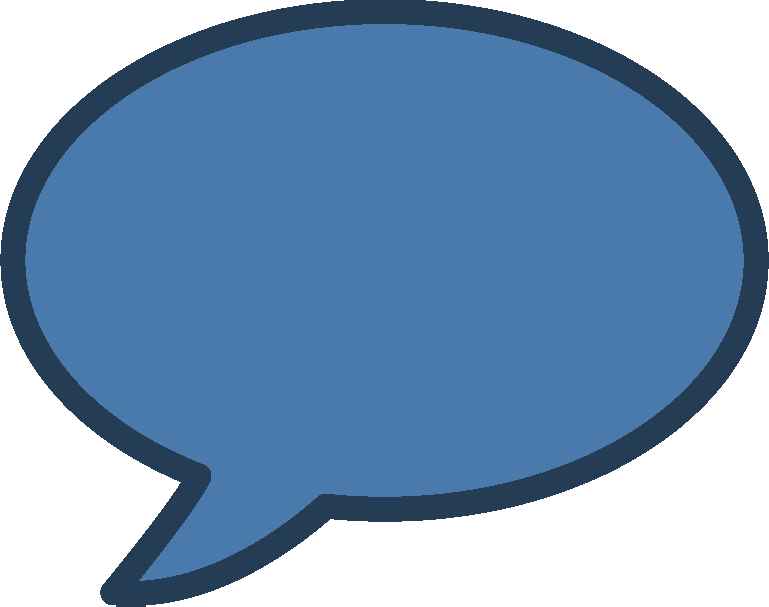
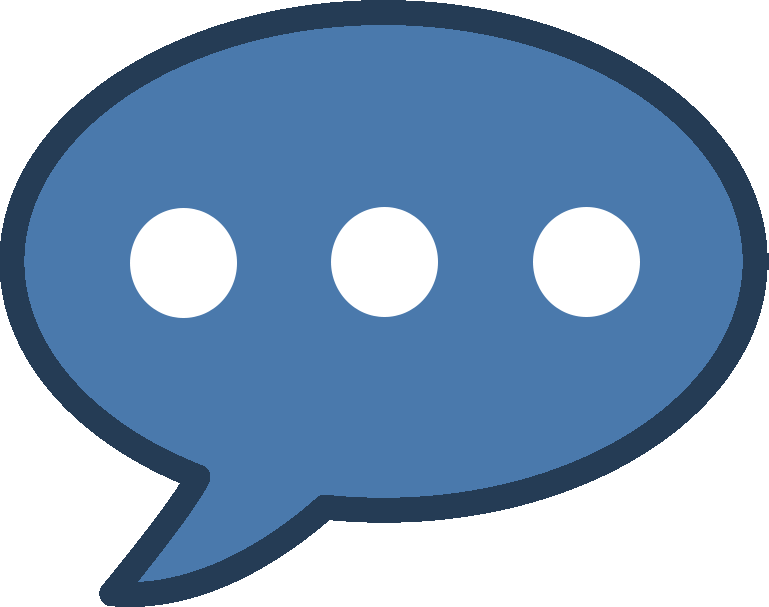
cc가 하나만 노출되도록 수정 / 각종 버튼 이미지 업데이트
cc가 하나만 노출되도록 수정 / 각종 버튼 이미지 업데이트

diff --git a/css/hospital/prescription.css b/css/hospital/prescription.css
@@ -363,18 +363,18 @@
 .print-btn-prescription {
     position: absolute;
     right: 220px;  /* desk-select(100px) + Send 버튼(80px) + 간격(40px) */
-    width: 35px;
-    height: 35px;
+    width: 30px;
+    height: 30px;
     border: none;
     cursor: pointer;
     background: url('../../image/printer.png') no-repeat center;
-    background-size: 35px;  /* 내부 이미지 크기 */
+    background-size: 30px;  /* 내부 이미지 크기 */
     transition: background-image 0.3s ease;
 }
 
 .print-btn-prescription:hover {
     background: url('../../image/printer_hover.png') no-repeat center;
-    background-size: 35px;
+    background-size: 30px;
 }
 
 .cc-search-container {
@@ -678,7 +678,7 @@
 }
 
 .prescript-history-record .record-date {
-    font-size: 14px;
+    font-size: 12px;
     font-weight: bold;
     color: #000;
 }
@@ -688,15 +688,14 @@
 }
 
 .prescript-history-record .record-doctor {
-    font-size: 14px;
-    font-weight: bold;
+    font-size: 12px;
     color: #666;
     margin-top: 5px;
 }
 
 .prescript-history-record .record-cc {
     font-size: 12px;
-    color: #666;
+    color: #000;
     margin-top: 5px;
 }
 
@@ -725,42 +724,47 @@
 .save-btn {
     position: absolute;
     right: 275px;
-    width: 80px;
-    height: 33px;
+    width: 25px;
+    height: 25px;
     border: none;
-    border-radius: 6px;
-    background-color: rgb(0, 102, 255);
-    color: white;
-    font-size: 12px;
+    border-radius: 0;
+    background: url('../../image/save_black.png') no-repeat center;
+    background-size: contain;
     cursor: pointer;
-    transition: background-color 0.3s ease;
+    transition: background-image 0.3s ease;
+    padding: 0;
 }
 
 .save-btn:hover {
-    background-color: rgb(0, 82, 204);
+    background-image: url('../../image/save.png');
+}
+
+.save-btn.disabled {
+    background-image: url('../../image/save_black.png');
+    cursor: not-allowed;
 }
 
 /* Delete 버튼 스타일 */
 .delete-btn {
     position: absolute;
-    right: 365px;
-    width: 80px;
-    height: 33px;
+    right: 330px;
+    width: 25px;
+    height: 26.3px;
     border: none;
-    border-radius: 6px;
-    background-color: #ff3333;
-    color: white;
-    font-size: 12px;
+    border-radius: 0;
+    background: url('../../image/delete_black.png') no-repeat center;
+    background-size: contain;
     cursor: pointer;
-    transition: background-color 0.3s ease;
+    transition: background-image 0.3s ease;
+    padding: 0;
 }
 
 .delete-btn:hover {
-    background-color: #cc0000;
+    background-image: url('../../image/delete.png');
 }
 
 .delete-btn.disabled {
-    background-color: #ffcccc;
+    background-image: url('../../image/delete_black.png');
     cursor: not-allowed;
 }
 

diff --git a/js/hospital/prescriptHistory.js b/js/hospital/prescriptHistory.js
@@ -38,14 +38,13 @@ export async function initializePrescriptionHistory(patientId) {
         if (data.prescription) {  // prescription 필드가 있는 경우만 표시
             const prescriptionDate = doc.id.split('_')[0];  // YYYY.MM.DD 형식
             const daysBefore = calculateDaysBefore(prescriptionDate);
-            const ccList = data.prescription.cc.join(', ');
 
             // 히스토리 아이템 데이터 저장
             allHistoryItems.push({
                 html: `
                     <div class="record-date">${prescriptionDate} <span>(${daysBefore})</span></div>
                     <div class="record-doctor">Doctor : ${data.doctor || 'Unknown'}</div>
-                    <div class="record-cc">CC : ${ccList}</div>
+                    <div class="record-cc">CC : ${data.prescription.cc[0] || 'None'}</div>
                 `,
                 data: {
                     prescriptionData: data.prescription,
@@ -255,3 +254,4 @@ function calculateDaysBefore(dateStr) {
 }
 
 const months = ['Jan', 'Feb', 'Mar', 'Apr', 'May', 'Jun', 'Jul', 'Aug', 'Sep', 'Oct', 'Nov', 'Dec'];
+

diff --git a/hospital.html b/hospital.html
@@ -85,7 +85,7 @@
                           <img src="image/update.png" alt="Update" title="Update" class="update-icon">
                       </button>
                       <button class="action-button" id="chat-button">
-                          <img src="image/chat_black.png" alt="Chat" title="Chat" class="chat-icon" style="width: 20px; height: 15.78px;">
+                          <img src="image/chat_black.png" alt="Chat" title="Chat" class="chat-icon" style="width: 25px; height: 19.725px;">
                       </button>
                       <span class="user-name"></span>
                       <div class="status-selector">
@@ -250,8 +250,8 @@
             <input type="text" class="search-input" placeholder="Patient Search">
         </div>
         <button class="new-patient-btn">
-            <img src="image/new_patient.png" alt="New Patient Icon">
             New Patient
+            <img src="image/new_patient.png" alt="New Patient Icon">
         </button>
         <div class="action-buttons">
             <button class="action-button" id="refresh-button">

diff --git a/css/hospital/topbar.css b/css/hospital/topbar.css
@@ -50,12 +50,11 @@
 
         /* new-patient-btn: 신규환자 버튼 */
         .new-patient-btn {
-            padding: 8px 16px;
             background-color: rgb(0, 102, 255);
             color: white;
             border: none;
-            border-radius: 6px;
-            height: 33px;
+            border-radius: 20px;
+            height: 34px;
             width: 140px;
             font-size: 12px;
             cursor: pointer;
@@ -67,8 +66,8 @@
         }
 
         .new-patient-btn img {
-            width: 25px;  /* 아이콘 크기 */
-            height: 25px;
+            width: 15px;  /* 아이콘 크기 */
+            height: 15px;
         }
 
         /* new-patient-btn: 신규환자 버튼 hover */

diff --git a/js/hospital/prescription.js b/js/hospital/prescription.js
@@ -195,14 +195,12 @@ export function initializePrescription() {
     // Delete 버튼 추가 (Save 버튼 왼쪽에)
     const deleteBtn = document.createElement('button');
     deleteBtn.className = 'delete-btn';
-    deleteBtn.textContent = 'Delete';
     deleteBtn.disabled = true;
     deleteBtn.classList.add('disabled');
     
     // Save 버튼 추가 (프린터 버튼 왼쪽에)
     const saveBtn = document.createElement('button');
     saveBtn.className = 'save-btn';
-    saveBtn.textContent = 'Save';
     document.querySelector('.content-footer-prescription').insertBefore(saveBtn, printBtn);
     document.querySelector('.content-footer-prescription').insertBefore(deleteBtn, saveBtn);
 

diff --git a/js/hospital/calendar.js b/js/hospital/calendar.js
@@ -204,12 +204,14 @@ function handleCellClick(hour, minute, column) {
             <button class="tooltip-close">×</button>
         </div>
         <form class="tooltip-form">
+            <label>ID Card</label>
+            <input type="text" class="tooltip-id-number">
+
+
             <label>Name</label>
             <input type="text" class="tooltip-name">
             
-            <label>ID Card / Passport Number</label>
-            <input type="text" class="tooltip-id-number">
-            
+
             <label>Gender</label>
             <div class="tooltip-gender-select">
                 <select class="tooltip-gender">
